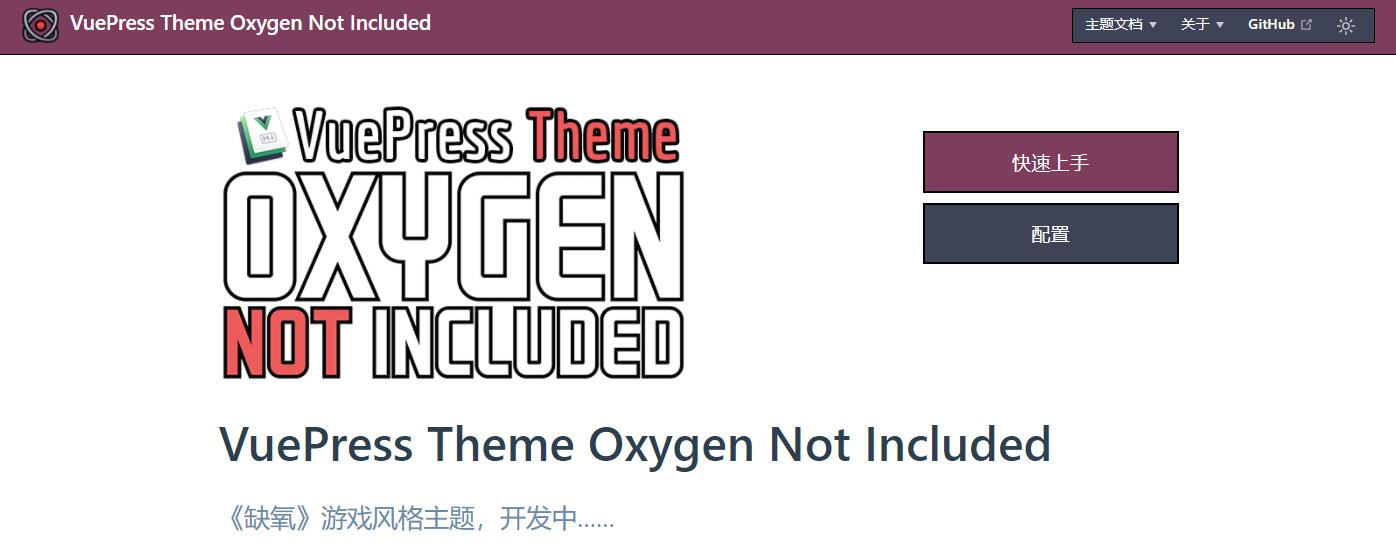
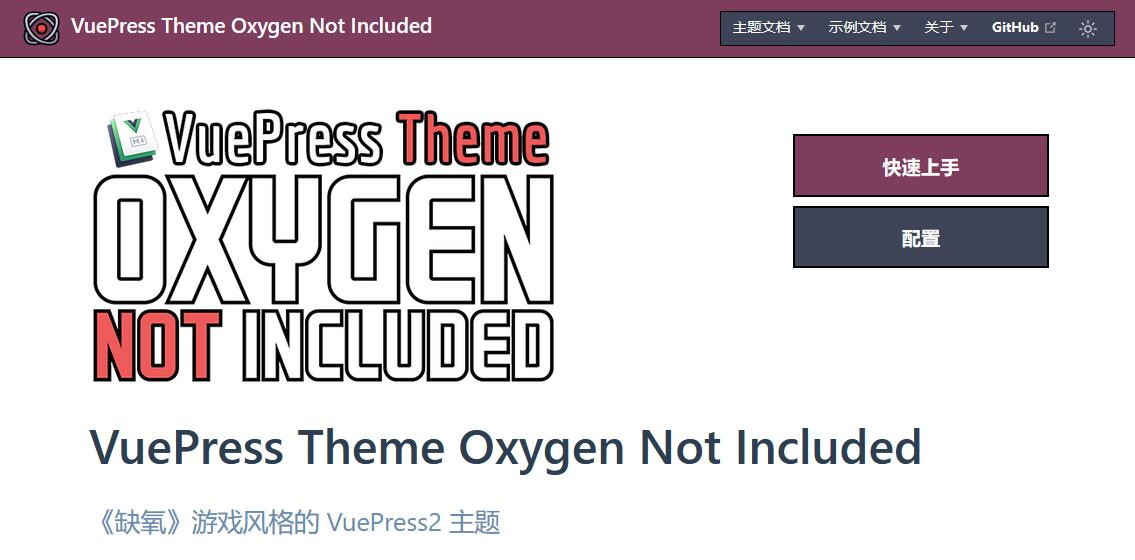
update to VuePress2-beta.25

diff --git a/docs/.vuepress/config.ts b/docs/.vuepress/config.ts
@@ -5,7 +5,7 @@ import * as path from 'path'
 export default defineUserConfig<DefaultThemeOptions>({
   lang: 'zh-CN',
   title: 'VuePress Theme Oxygen Not Included',
-  description: '《缺氧》游戏风格主题，开发中……',
+  description: '《缺氧》游戏风格的 VuePress2 主题',
   theme: 'vuepress-theme-oxygen-not-included',
 
   themeConfig: {
